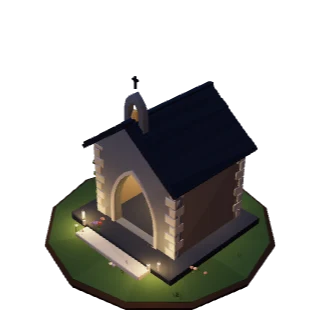
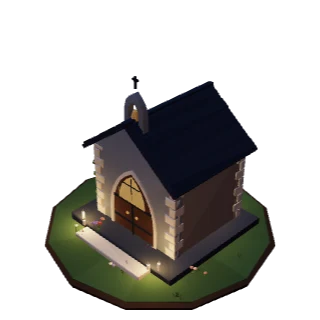
Santuario: portone di legno con vetrata accesa al posto dell'arco vuoto
Dall'angolo di gioco l'interno non si vede mai (l'altare resta dietro la
facciata): l'arco ora è chiuso da un portone a sesto acuto con ferramenta e
una vetrata che si accende con le luci. Anteprima della Bottega rifatta.

Claude-Session: https://claude.ai/code/session_01U6u5RojYrwYjZd8sSRU7em

Changed region(s): [[0.3438, 0.5312, 0.5, 0.7812]]

diff --git a/Production/src/render/lowpoly/extras.ts b/Production/src/render/lowpoly/extras.ts
@@ -167,6 +167,16 @@ export function shrineLP(v: PVis): LPModel {
   front.holes.push(new THREE.Path(hole.getPoints().reverse()));
   lp.push([0, 0, D / 2 - 0.08]).extrude(front, 0.16, LPC.stone, { bevel: 0.012, vary: 0.05, ...o }).pop();
   lp.push([0, 0, D / 2 + 0.005]).plate((() => { const f = gothicArchShape(1.12, 1.33, 5); f.holes.push(new THREE.Path(gothicArchShape(1.0, 1.25, 5).getPoints().reverse())); return f; })(), 0.03, LPC.stoneLight, { ao: 0 }).pop();
+  // portone di legno a sesto acuto, accostato nello spessore della facciata: chiude l'arco (dall'alto
+  // l'interno non si vedrebbe comunque) e la vetrata sopra, accesa, dice che dentro c'è qualcuno
+  const doorZ = D / 2 - 0.08 + 0.05;
+  lp.push([0, 0, doorZ]).extrude(gothicArchShape(1.0, 1.25, 5), 0.06, LPC.woodDark, { bevel: 0.008, vary: 0.08, ao: 0.2 }).pop();
+  lp.box(0, 0, doorZ + 0.06, 0.03, 0.82, 0.02, LPC.iron, { jitter: 0 });
+  for (const y of [0.22, 0.62]) lp.box(0, y, doorZ + 0.06, 0.92, 0.05, 0.015, LPC.iron, { jitter: 0.004, bevel: 0.004 });
+  for (const x of [-0.11, 0.11]) lp.blob(x, 0.42, doorZ + 0.075, 0.035, 0.035, 0.02, LPC.gold, { jitter: 0 });
+  lp.push([0, 0.86, doorZ + 0.06]).plate(gothicArchShape(0.62, 0.34, 4), 0.012, lit ? '#e8b668' : '#4a3a2a', { bucket: lit ? 'glow' : 'solid', ao: 0 }).pop();
+  lp.box(0, 0.86, doorZ + 0.07, 0.02, 0.3, 0.012, LPC.iron, { jitter: 0 });
+  lp.box(0, 1.0, doorZ + 0.07, 0.4, 0.02, 0.012, LPC.iron, { jitter: 0 });
   // interno: altare, icona illuminata, candele
   lp.box(0, 0, -0.35, 0.8, 0.5, 0.35, LPC.marble, { bevel: 0.015 });
   lp.box(0, 0.5, -0.35, 0.86, 0.04, 0.4, LPC.stoneLight, { bevel: 0.008 });
